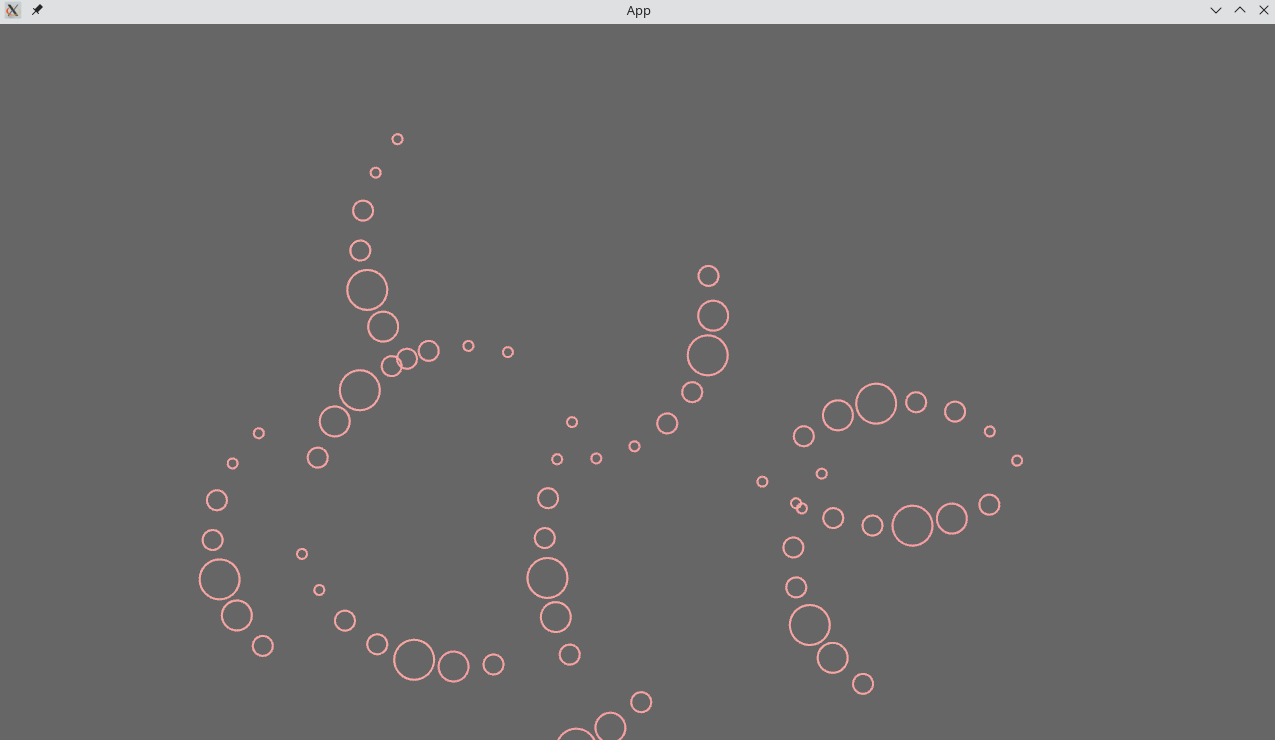
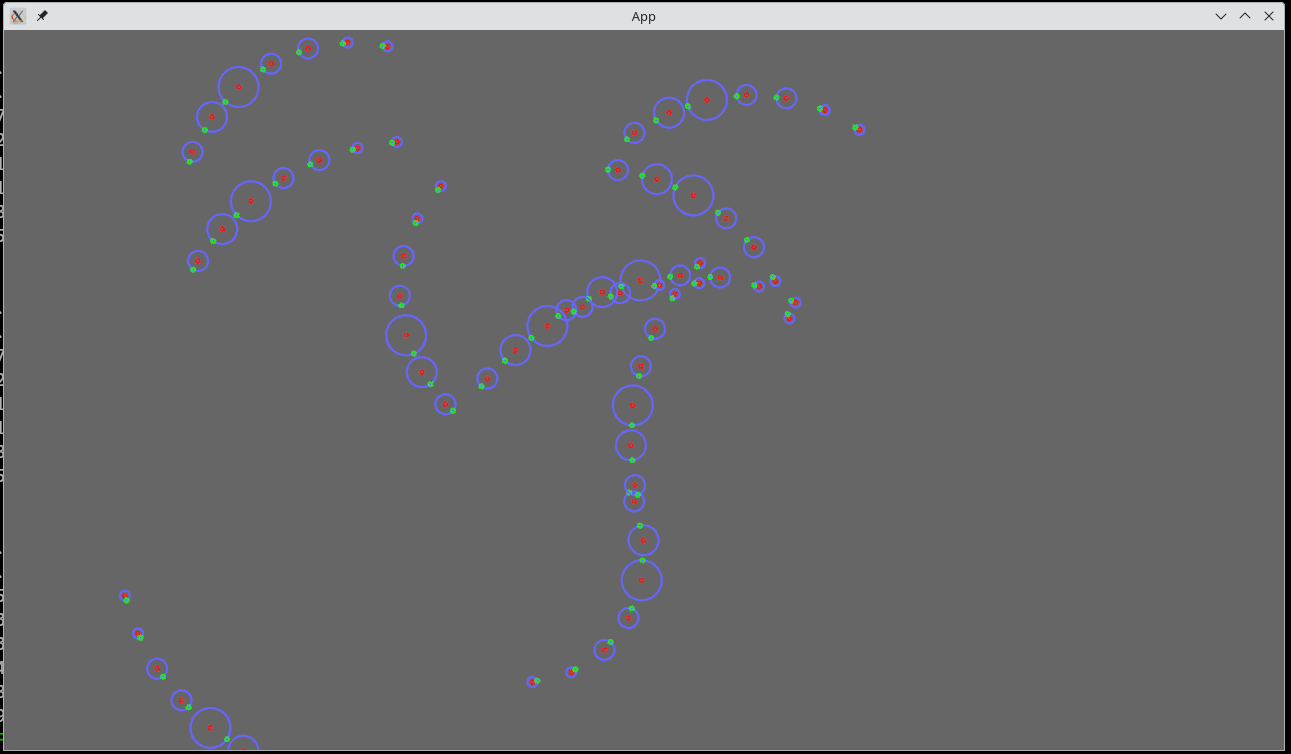
added points

diff --git a/src/main.rs b/src/main.rs
@@ -68,10 +68,27 @@ fn animate_circles(
         chain.circle_chain.allign_nodes();
         for circle in &chain.circle_chain.circles {
             transform.translation = Vec3::new(circle.x as f32, circle.y as f32, 0.0);
+            let radius = circle.radius as f32;
+            let angle = circle.direction as f32;
             gizmos.circle_2d(
                 transform.translation.truncate(),
-                circle.radius as f32,
-                Color::hsla(circle.direction as f32, 0.8, 0.8, 1.0),
+                radius,
+                Color::rgb(0.4, 0.4, 1.0),
+            );
+
+            gizmos.circle_2d(
+                transform.translation.truncate(),
+                2.0,
+                Color::rgb(0.9, 0.1, 0.1),
+            );
+
+            let index_x = circle.x as f32 + radius * angle.cos();
+            let index_y = circle.y as f32 + radius * angle.sin();
+            transform.translation = Vec3::new(index_x, index_y, 0.0);
+            gizmos.circle_2d(
+                transform.translation.truncate(),
+                2.0,
+                Color::rgb(0.1, 0.9, 0.1),
             );
         }
     }

diff --git a/src/shapes/circle.rs b/src/shapes/circle.rs
@@ -1,3 +1,4 @@
+use std::f64::consts::PI;
 fn calculate_angle_radians(x: f64, y: f64) -> f64 {
     y.atan2(x) // Compute the angle in radians
 }
@@ -30,7 +31,7 @@ impl CircularNode {
         let ty = dist * direction.sin();
         self.x = ref_circle.x + tx;
         self.y = ref_circle.y + ty;
-        self.direction = direction;
+        self.direction = PI + direction;
 
         CircularNode {
             x: ref_circle.x + tx,
@@ -88,8 +89,11 @@ impl CircleChain {
     }
 
     pub fn position_head(&mut self, x: f64, y: f64) {
+        let dx = self.circles[0].x - x;
+        let dy = self.circles[0].y - y;
         self.circles[0].x = x;
         self.circles[0].y = y;
+        self.circles[0].direction = PI + calculate_angle_radians(dx, dy);
     }
 
     pub fn allign_nodes(&mut self) {

diff --git a/README.md b/README.md
@@ -1,4 +1,3 @@
-# rustanimations
-
+# procedural animation of linked nodes
 <img src="https://github.com/JoJoDataPhysics/rustanimations/blob/main/Screenshot.png" alt="fishes" width="450"/>
 
